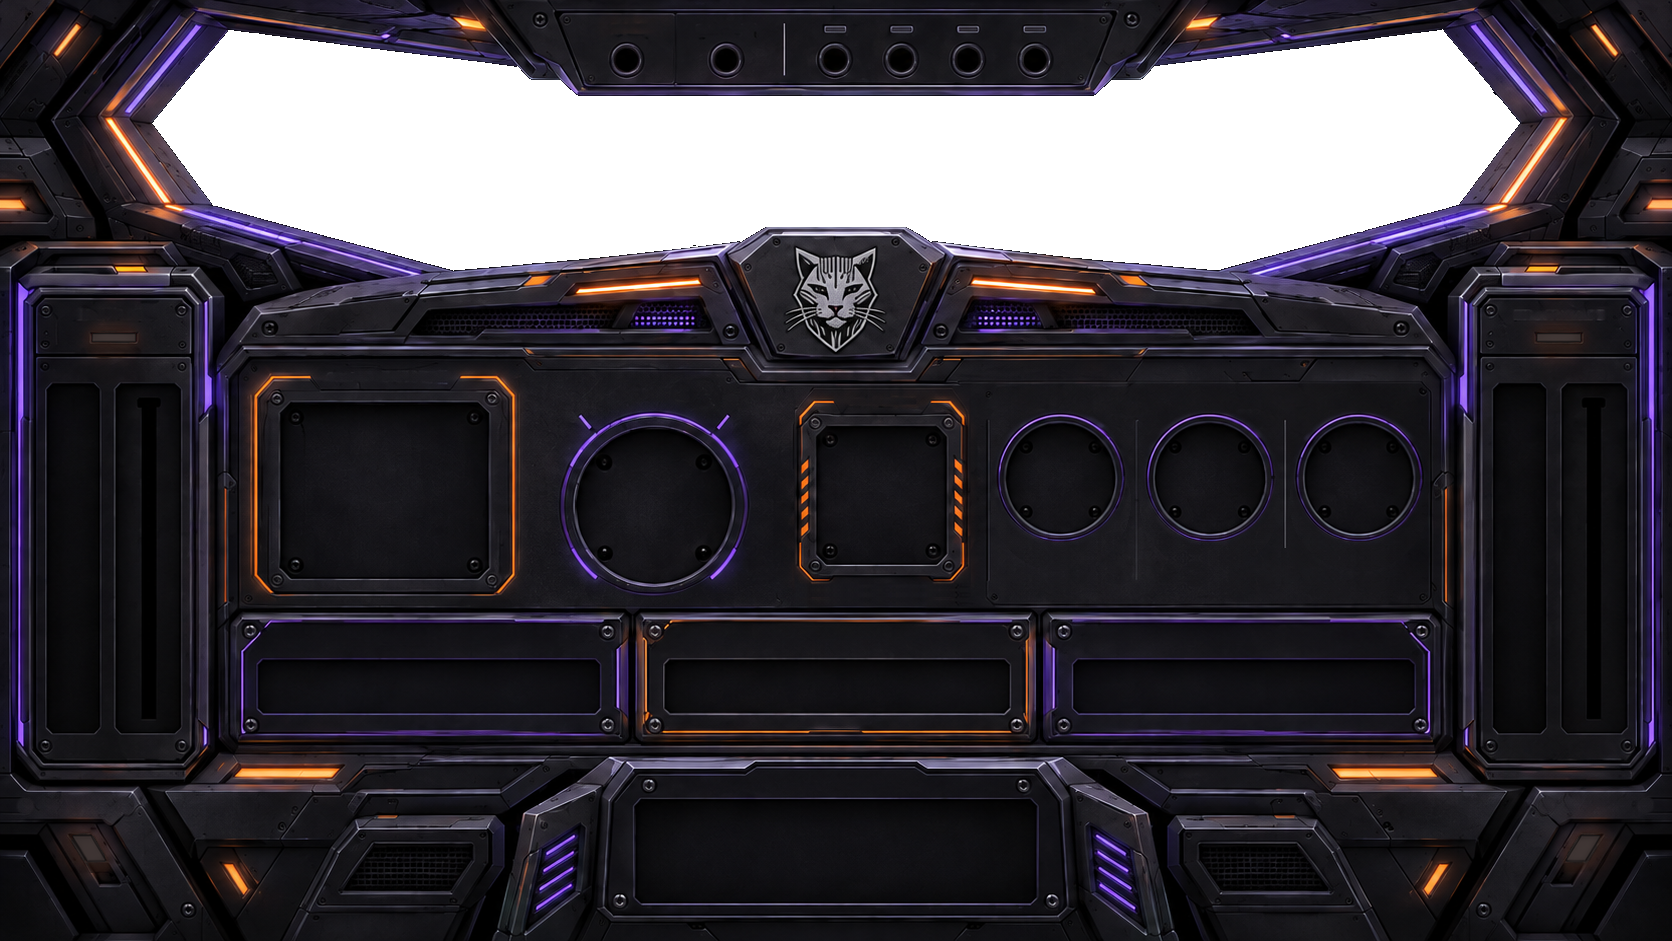
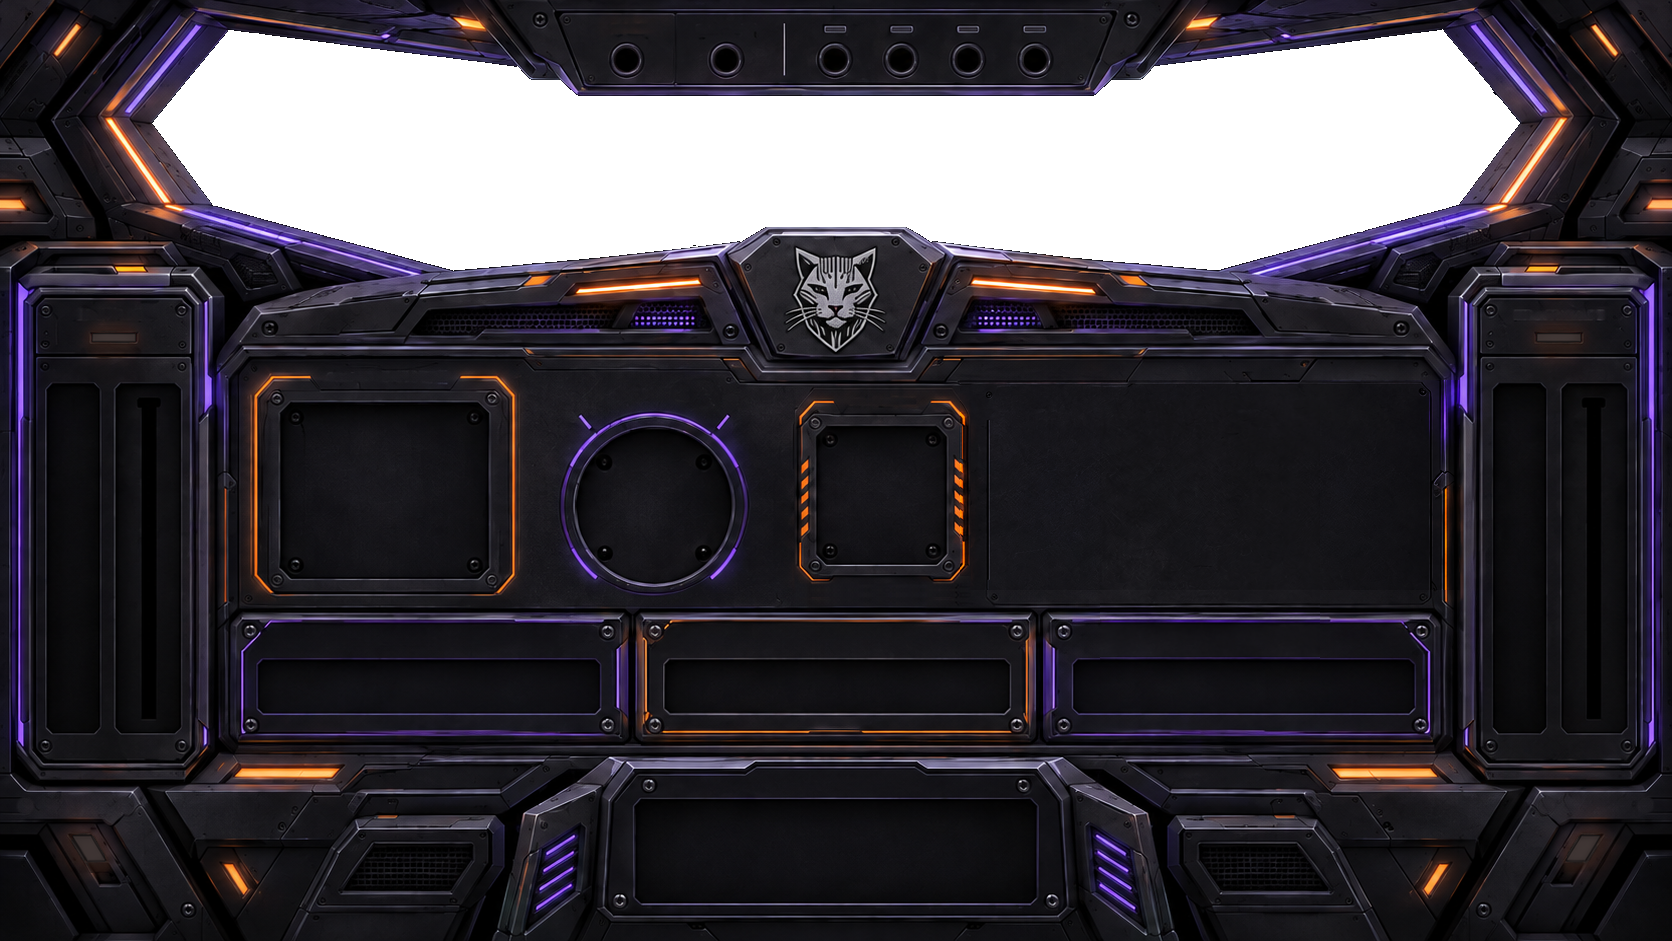
Faces: the pictures lose their tone sockets and the rovers' right key frame — a socket and the frame's caps and cell are renders of their own, and bake-art no longer lifts the cockpit's rings

diff --git a/tools/bake-art/Cockpit.cpp b/tools/bake-art/Cockpit.cpp
@@ -26,12 +26,6 @@ namespace
         /** A point in the middle of the windshield, which the render paints pure black. */
         juce::Point<float> windshieldSeed;
 
-        /** The tone knobs stand with their top edges level with DRIVE's, `toneLift` higher than the render
-            painted their sockets: each socket where it stands now (CatpitLayout.h's tones) and its ring. */
-        float toneLift;
-        struct Socket { juce::Point<float> centre; float radius; };
-        std::array<Socket, 3> tones;
-
         /** The TURBO frame stands `turboLift` higher than the render painted it, so that its name, printed
             in its top line, is read beside DRIVE's and the tones'. */
         float turboLift;
@@ -50,12 +44,6 @@ namespace
 
     const Cockpit cockpit {
         { 836.0f, 164.0f },
-        24.5f,
-        {{
-            { { 1060.3f, 476.9f }, 62.2f },    // BASS
-            { { 1209.6f, 477.0f }, 62.4f },    // MIDDLE
-            { { 1358.7f, 476.9f }, 61.9f },    // TREBLE
-        }},
         14.0f,
         {{
             { 81.0f,   325.0f, 66.0f, 38.0f },    // the bar 93..134 x 334..340, and its glow on the seam below
@@ -125,69 +113,9 @@ namespace
         return img;
     }
 
-    /** THE TONE SOCKETS MOVE UP. The render painted the three rings lower than the cockpit wants them
-        now — their tops level with DRIVE's, a row of keys under them — and until the console is rendered
-        again the picture is corrected here: the bare plate from just under each ring is laid over it,
-        the ring is put back `toneLift` higher as a soft-edged disc, and the divider between MIDDLE and
-        TREBLE, which would run down through the keys, is cut short. */
-    juce::Image raiseTones (juce::Image img)
-    {
-        if (! img.isValid())
-            return img;
-
-        const float k = (float) img.getWidth() / width;
-        const auto original = img.createCopy();
-        const juce::Image::BitmapData src (original, juce::Image::BitmapData::readOnly);
-        juce::Image::BitmapData dst (img, juce::Image::BitmapData::readWrite);
-        const int w = img.getWidth(), h = img.getHeight();
-        const auto inside = [w, h] (int x, int y) { return x >= 0 && y >= 0 && x < w && y < h; };
-
-        const int lift = juce::roundToInt (cockpit.toneLift * k);
-        const int cleanRows = juce::jmax (2, juce::roundToInt (16.0f * k));
-        const float feather = 3.0f * k;
-
-        for (const auto& socket : cockpit.tones)
-        {
-            const float cx = socket.centre.x * k, cy = (socket.centre.y + cockpit.toneLift) * k;   // where it was painted
-            const float R = (socket.radius + 8.0f) * k;                                           // the ring and its glow
-            const int x0 = (int) std::floor (cx - R), x1 = (int) std::ceil (cx + R);
-            const int y0 = (int) std::floor (cy - R), y1 = (int) std::ceil (cy + R);
-            const int clean0 = y1 + 2;                                                            // bare plate from here down
-
-            for (int y = y0; y <= y1; ++y)
-                for (int x = x0; x <= x1; ++x)
-                    if (inside (x, y) && std::hypot ((float) x - cx, (float) y - cy) <= R)
-                    {
-                        // the strip under the ring, mirrored back and forth so no row meets a stranger
-                        const int m = (clean0 - 1 - y) % (2 * cleanRows);
-                        const int row = clean0 + (m < cleanRows ? m : 2 * cleanRows - 1 - m);
-                        if (inside (x, row))
-                            dst.setPixelColour (x, y, src.getPixelColour (x, row));
-                    }
-
-            for (int y = y0; y <= y1; ++y)
-                for (int x = x0; x <= x1; ++x)
-                {
-                    const float a = juce::jlimit (0.0f, 1.0f, (R - std::hypot ((float) x - cx, (float) y - cy)) / feather);
-                    if (a > 0.0f && inside (x, y) && inside (x, y - lift))
-                        dst.setPixelColour (x, y - lift, dst.getPixelColour (x, y - lift)
-                                                             .interpolatedWith (src.getPixelColour (x, y), a));
-                }
-        }
-
-        // The MIDDLE | TREBLE divider below the knobs: the plate beside it, copied over it.
-        const int dx0 = juce::roundToInt (1281.0f * k), dx1 = juce::roundToInt (1288.0f * k), from = juce::roundToInt (9.0f * k);
-        for (int y = juce::roundToInt (548.0f * k); y <= juce::roundToInt (584.0f * k); ++y)
-            for (int x = dx0; x <= dx1; ++x)
-                if (inside (x - from, y) && inside (x, y))
-                    dst.setPixelColour (x, y, dst.getPixelColour (x - from, y));
-
-        return img;
-    }
-
     /** THE TURBO FRAME MOVES UP, its name with it. The name stands in the frame's own top line, and
         that line was painted lower than the row the name is read in, beside DRIVE's and the tones'.
-        Until the console is rendered again the picture is corrected here, the way the tone sockets are:
+        Until the console is rendered again the picture is corrected here:
         the frame's box — the tab of its backplate, the brackets and their glow — is put back
         `turboLift` higher as a soft-edged rectangle, the bolt that stood in its way goes under bare
         plate, and so does the band the frame leaves at the bottom. The lift is as far as it can go:
@@ -355,7 +283,7 @@ Pictures bakeCockpit (const Sources& sources, float& gripAxis)
 {
     Pictures out;
 
-    auto bg = clearNamePlates (cutWindshield (raiseTurbo (raiseTones (sources.load ("cockpit.png")))));
+    auto bg = clearNamePlates (cutWindshield (raiseTurbo (sources.load ("cockpit.png"))));
     std::array<juce::Image, 4> lit;
     if (bg.isValid())
         for (size_t i = 0; i < lit.size(); ++i)
@@ -367,7 +295,7 @@ Pictures bakeCockpit (const Sources& sources, float& gripAxis)
     gripAxis = 0.5f;
     out.push_back ({ "throttle-grip.webp", capped (offCentreGrip (sources.load ("throttle-grip.png"), gripAxis), 480) });
 
-    for (const char* name : { "knob-drive", "knob-tone", "guard-closed", "guard-open", "guard-on", "fader-cap" })
+    for (const char* name : { "knob-drive", "knob-tone", "socket", "guard-closed", "guard-open", "guard-on", "fader-cap" })
         out.push_back ({ juce::String (name) + ".webp", sources.load (juce::String (name) + ".png") });
 
     return out;

diff --git a/tools/bake-art/BakeArt.cpp b/tools/bake-art/BakeArt.cpp
@@ -6,8 +6,8 @@
 // Each face's renders are painted once and kept as they were painted, in resources/<face>/source. What a
 // face draws is not quite that: a rover's dashboard has its rims made taller for the words, its notches
 // fitted to the product's gears, its corner plates grown for a fader, and the lamps it paints lit cut out
-// of it, to be lit again from the engine; the cockpit's render has its windshield cut out and its tone
-// sockets and TURBO frame raised; a lever has a glow the shape of it, a throttle grip is rebuilt. Each
+// of it, to be lit again from the engine; the cockpit's render has its windshield cut out and its TURBO
+// frame raised; a lever has a glow the shape of it, a throttle grip is rebuilt. Each
 // face used to do that itself on every start. This does it once, and writes what comes out into
 // resources/<face> as lossless WebP — the panel, each render, each sprite made from one — and that is
 // what a product carries and draws as it is (src/face/Renders.h). The numbers each correction was

diff --git a/tools/bake-art/Rover.cpp b/tools/bake-art/Rover.cpp
@@ -390,7 +390,8 @@ Pictures bakeRover (const juce::String& face, const Sources& sources)
         if (lit[i].isValid())
             out.push_back ({ "lamp-" + juce::String ((int) i) + ".webp", lit[i] });
 
-    for (const char* name : { "knob-drive", "knob-tone", "lever", "slider-cap", "fader-cap",
+    for (const char* name : { "knob-drive", "knob-tone", "socket", "key-frame-left", "key-frame-cell", "key-frame-right",
+                              "lever", "slider-cap", "fader-cap",
                               "toggle-up", "toggle-down", "key-up", "key-down", "turbo-up", "turbo-down" })
         out.push_back ({ juce::String (name) + ".webp", sources.load (juce::String (name) + ".png") });
 
